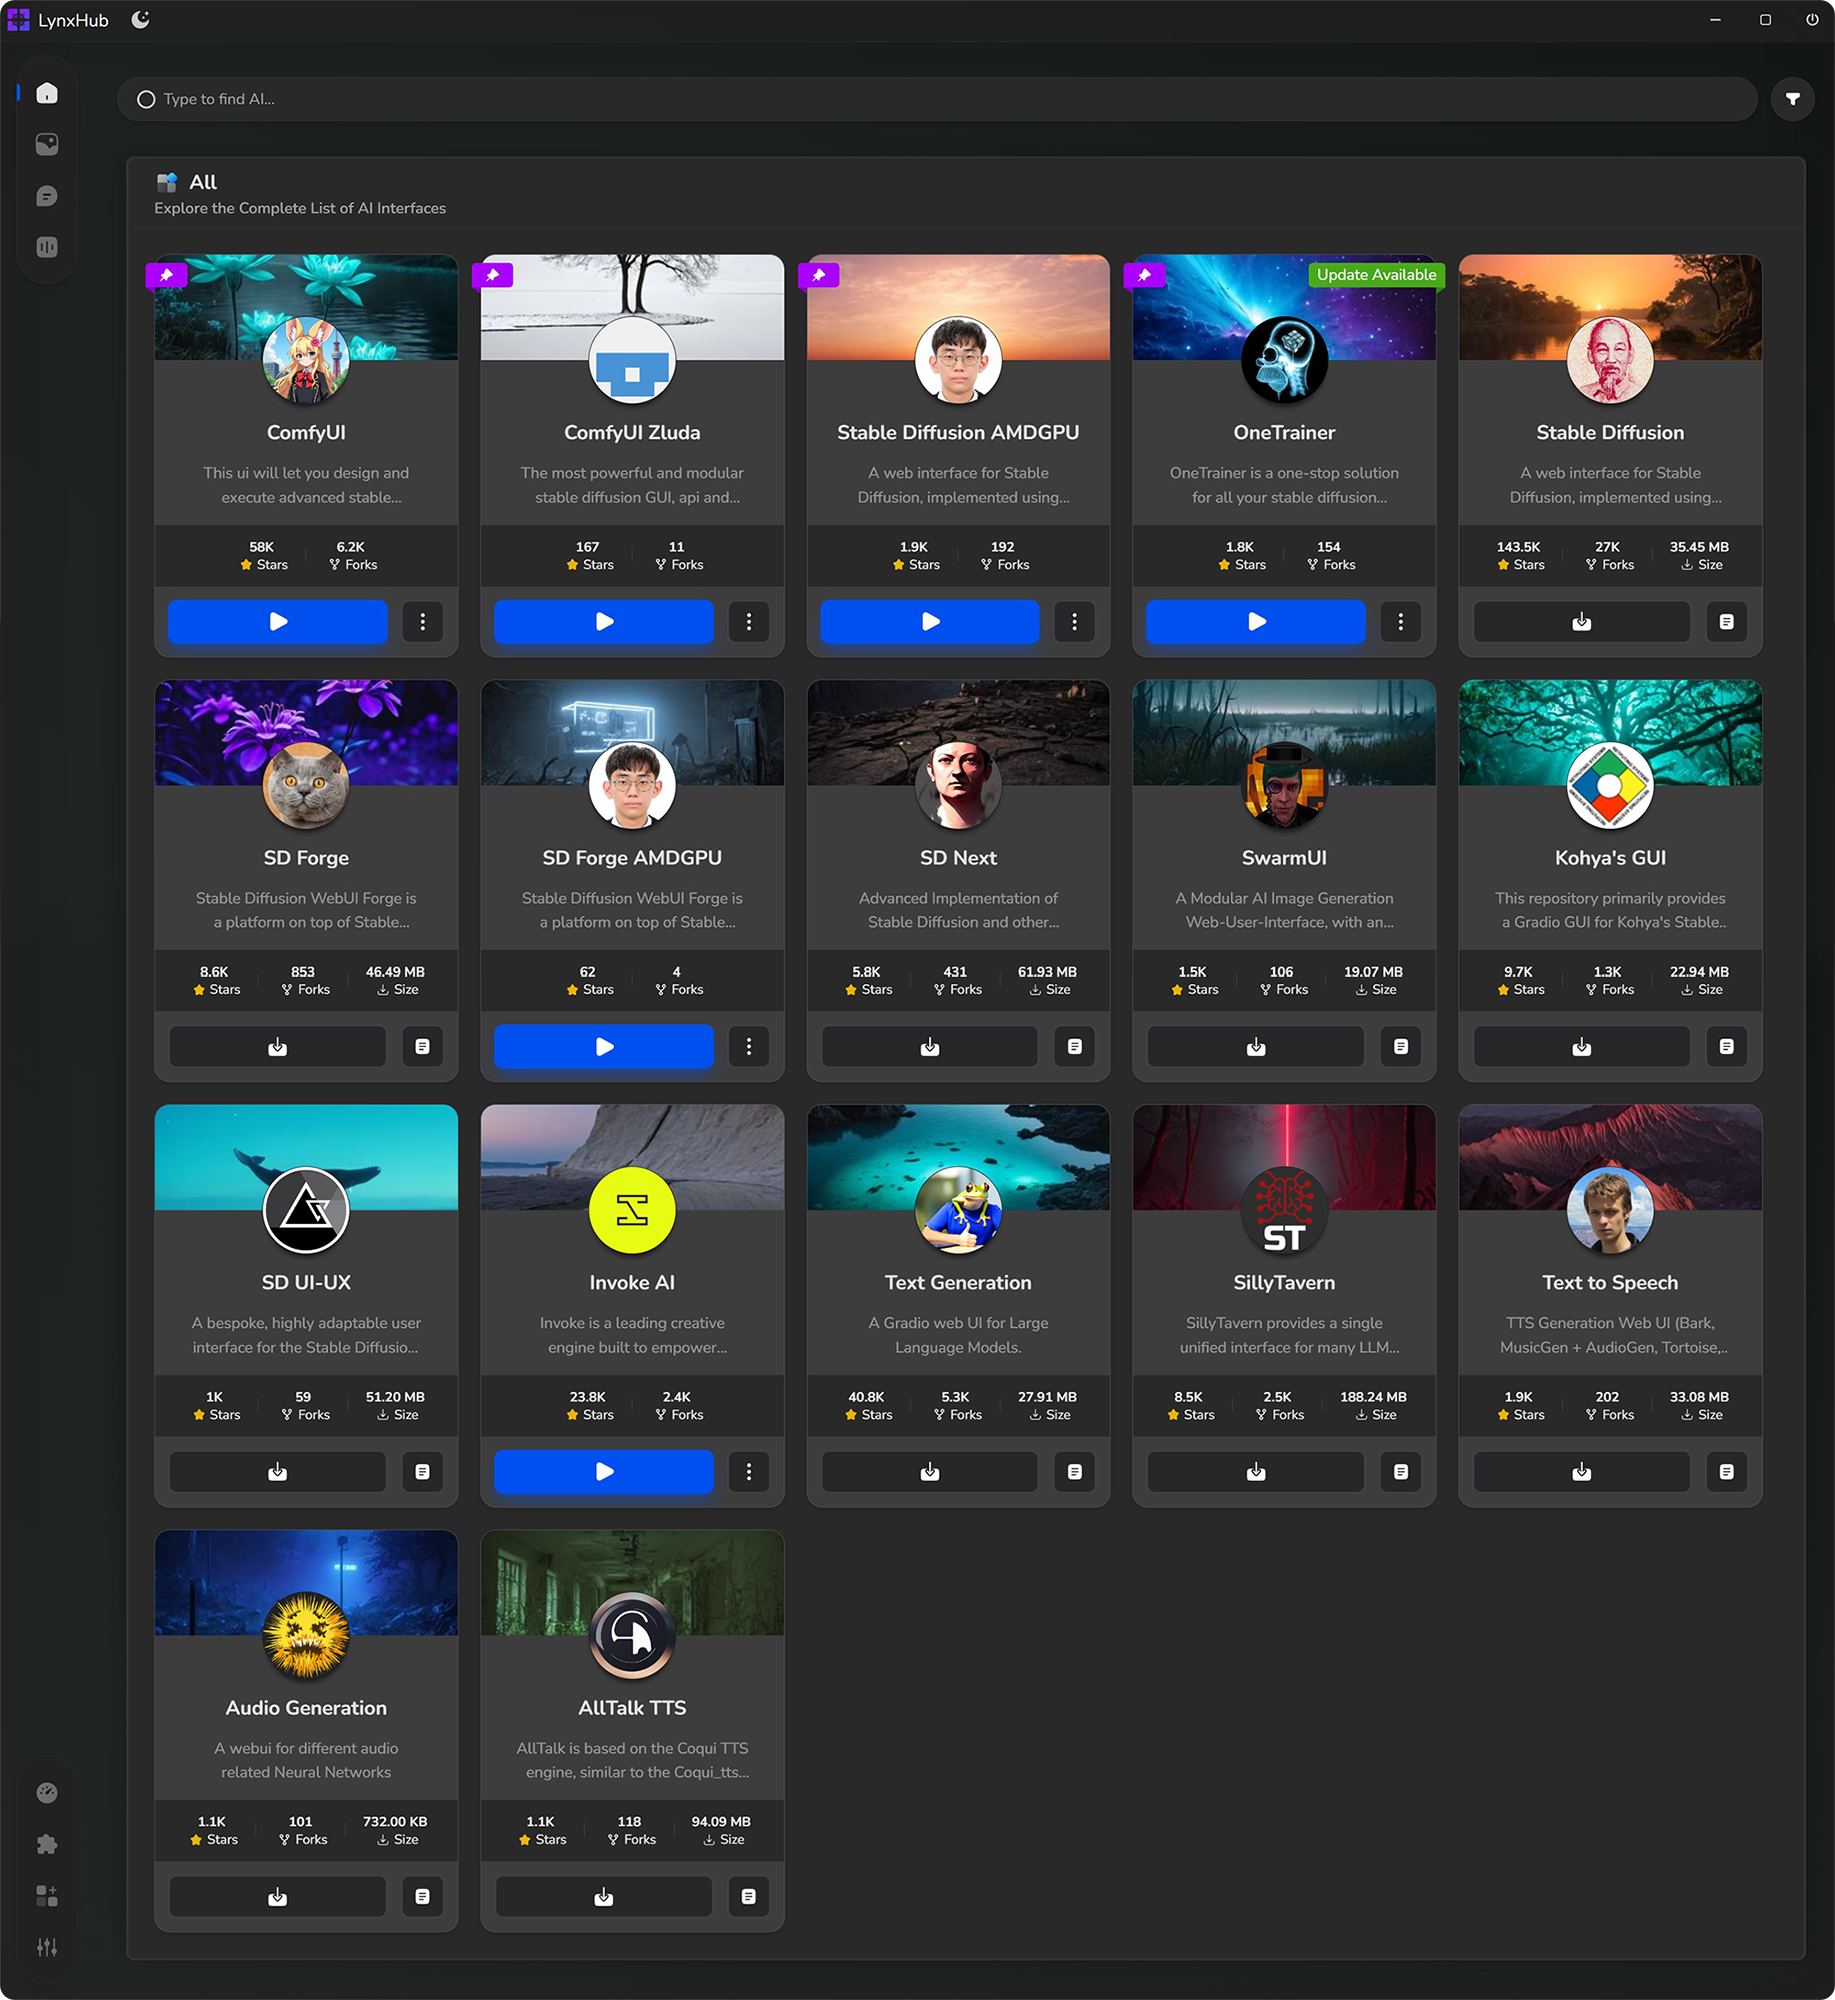
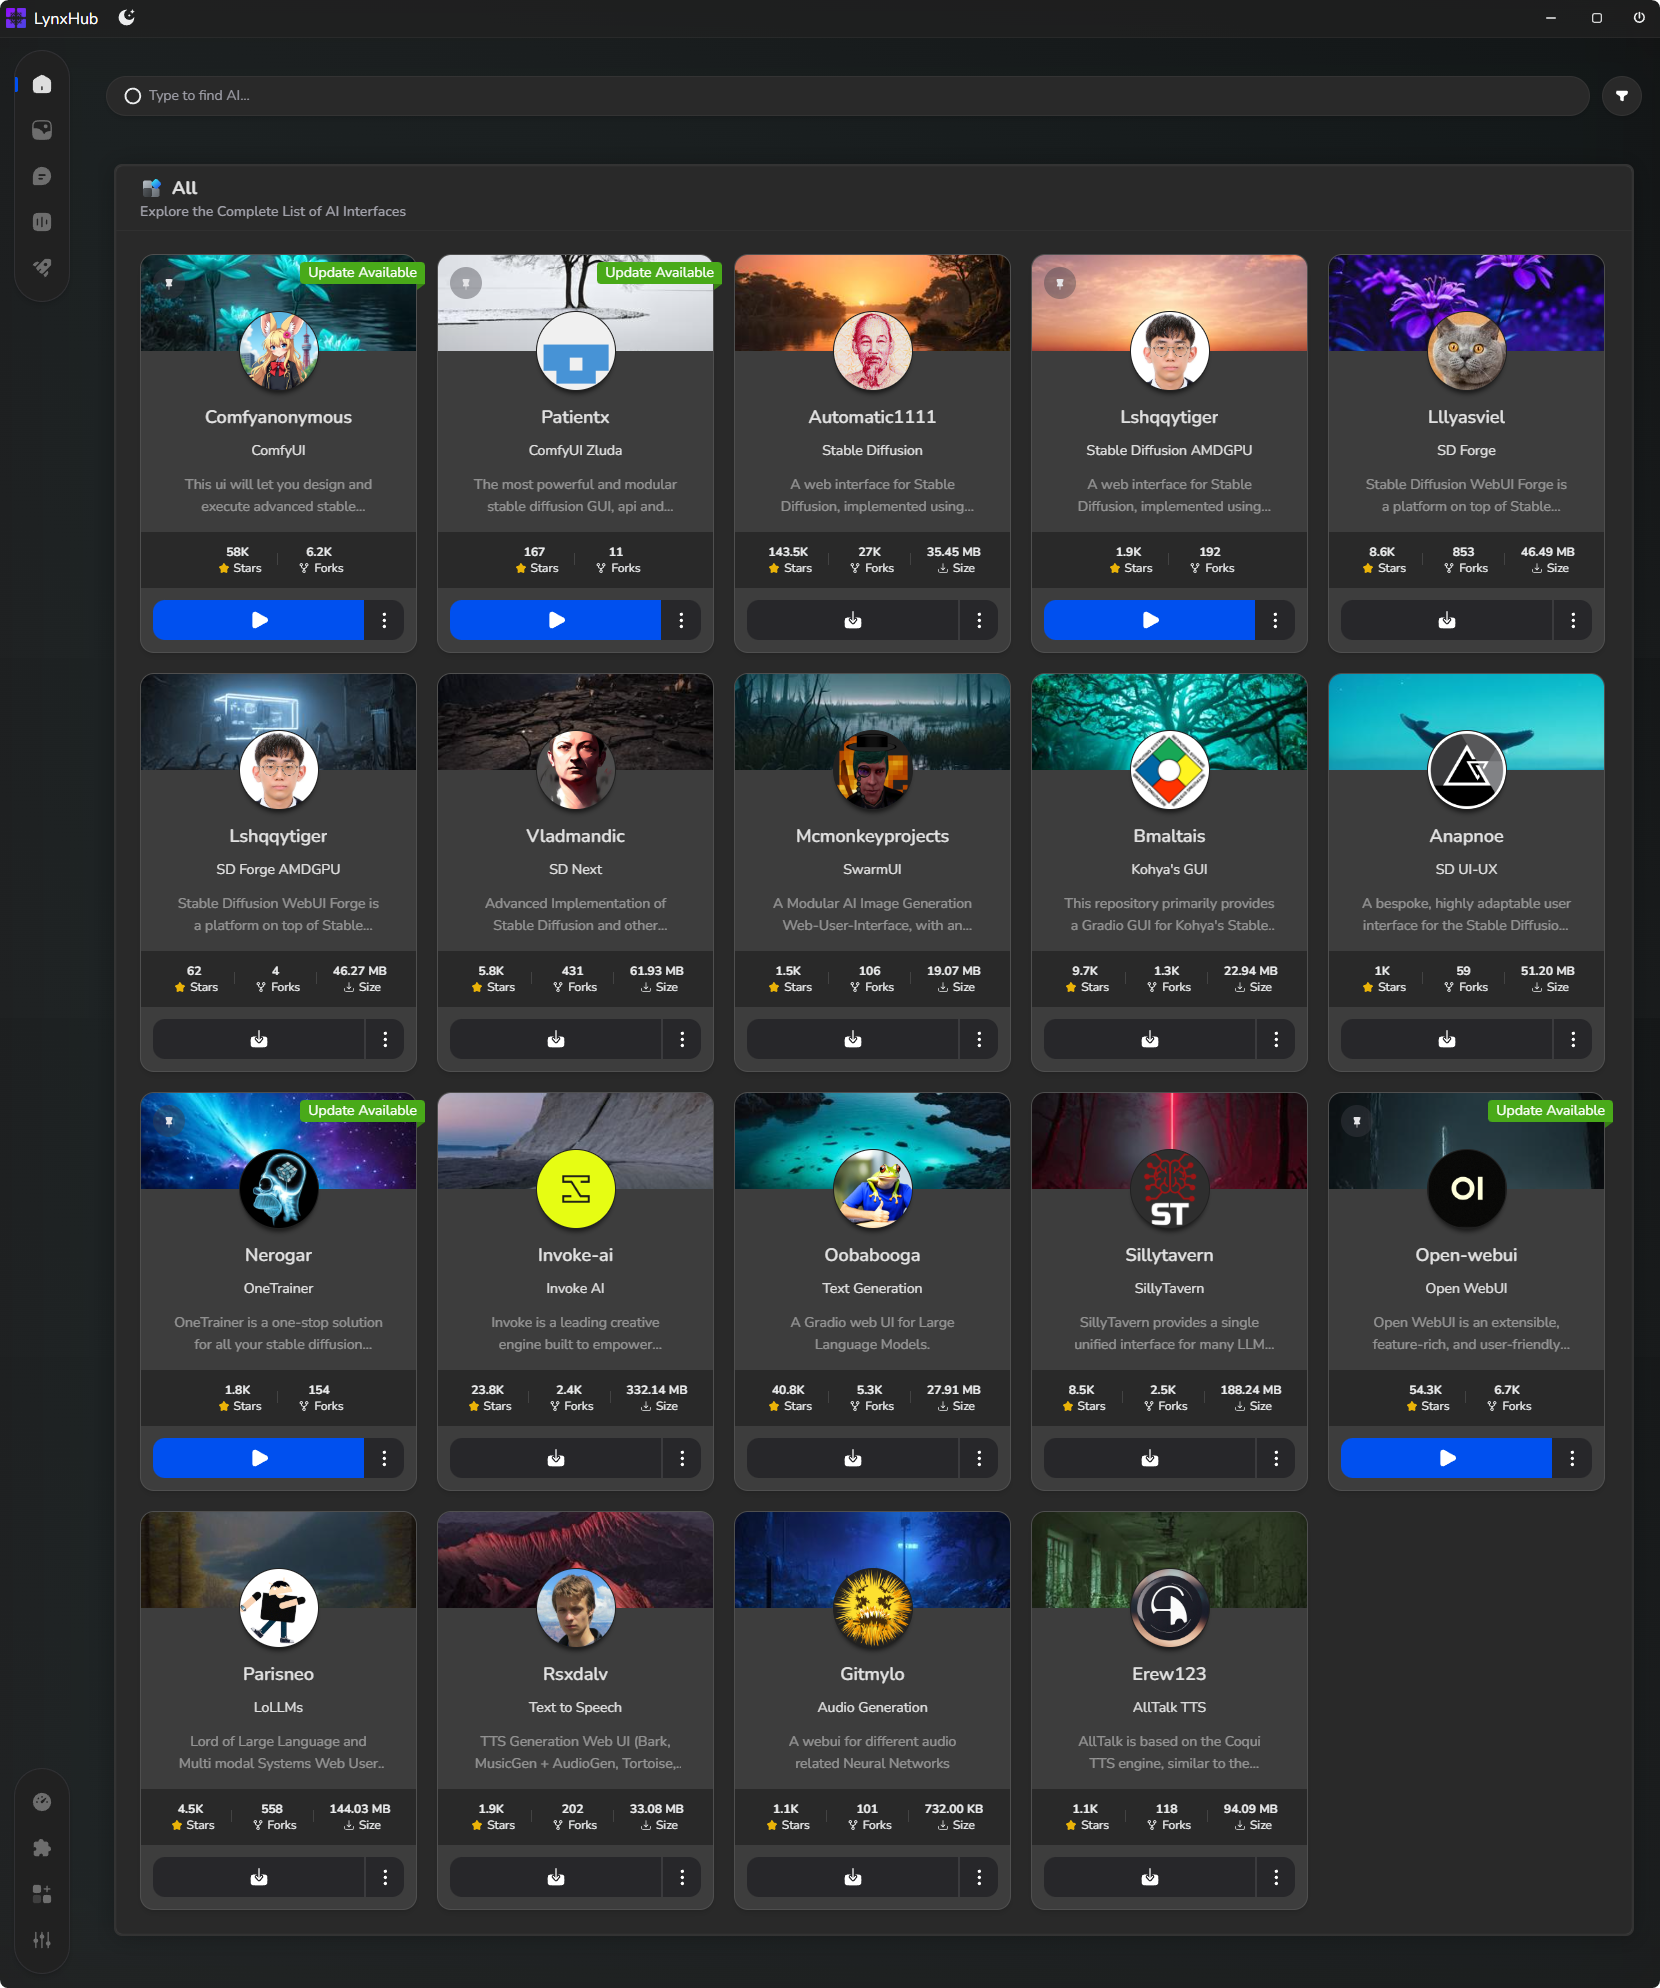
update readme

diff --git a/README.md b/README.md
@@ -6,6 +6,10 @@
 
 A comprehensive collection of WebUI modules featuring **full support** for **arguments and configurations**.
 
+[![GitHub Release][github-release-shield]](https://github.com/KindaBrazy/LynxHub-Module-Offline-Container/releases)
+[![GitHub Release Date][github-release-date-shield]](https://github.com/KindaBrazy/LynxHub-Module-Offline-Container/releases)
+[![GitHub Repo stars][github-repo-stars-shield]](https://github.com/KindaBrazy/LynxHub-Module-Offline-Container)
+
 <img src="resources/screenshot.png">
 
 </div>
@@ -35,6 +39,8 @@ A comprehensive collection of WebUI modules featuring **full support** for **arg
 |------------------------------------------------------------------------------------------------|-----------------|------------------------------------------------------------|
 | <img height='20' src="https://avatars.githubusercontent.com/u/112222186?s=20&v=4"> Oobabooga   | Text Generation | [Link](https://github.com/oobabooga/text-generation-webui) |
 | <img height='20' src="https://avatars.githubusercontent.com/u/134869877?s=20&v=4"> SillyTavern | SillyTavern     | [Link](https://github.com/SillyTavern/SillyTavern)         |
+| <img height='20' src="https://avatars.githubusercontent.com/u/158137808?s=20&v=4"> Open-WebUI  | Open WebUI      | [Link](https://github.com/open-webui/open-webui)           |
+| <img height='20' src="https://avatars.githubusercontent.com/u/827993?s=20&v=4"> ParisNeo       | LoLLMs          | [Link](https://github.com/ParisNeo/lollms-webui)           |
 
 ### 🎵 Audio Generation
 
@@ -44,25 +50,25 @@ A comprehensive collection of WebUI modules featuring **full support** for **arg
 | <img height='20' src="https://avatars.githubusercontent.com/u/36931363?s=20&v=4"> Gitmylo | Audio Generation | [Link](https://github.com/gitmylo/audio-webui)          |
 | <img height='20' src="https://avatars.githubusercontent.com/u/35898566?s=20&v=4"> Erew123 | AllTalk TTS      | [Link](https://github.com/erew123/alltalk_tts)          |
 
-> [!Note]
->
-> More modules are in development. Stay tuned for updates!
-
 ## 📊 Module Statistics
 
 | Category         | Number of Modules |
 |------------------|-------------------|
-| **Overall**      | **17**            |
+| **Overall**      | **19**            |
 | Image Generation | 12                |
-| Text Generation  | 2                 |
+| Text Generation  | 4                 |
 | Audio Generation | 3                 |
-
-## 🔍 Explore More
-
-Discover additional modules in the **[LynxHub](https://github.com/kindaBrazy/lynxhub)** application.
 
 ## 🛠 Development
 
 Interested in creating a module and published by your own?
 Check out **[Module Development Guide](https://github.com/KindaBrazy/LynxHub-Module-Guide)** for
 detailed instructions and best practices.
+
+
[1 lines of base64/hex data omitted]
+
[1 lines of base64/hex data omitted]
+
+
[1 lines of base64/hex data omitted]
